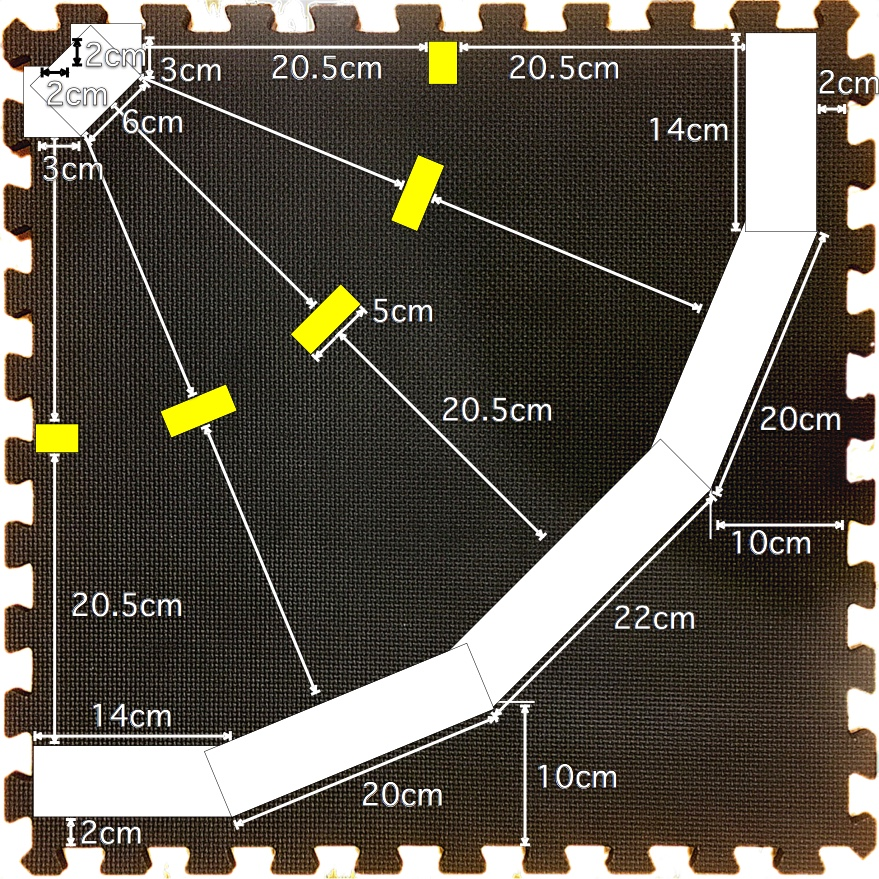
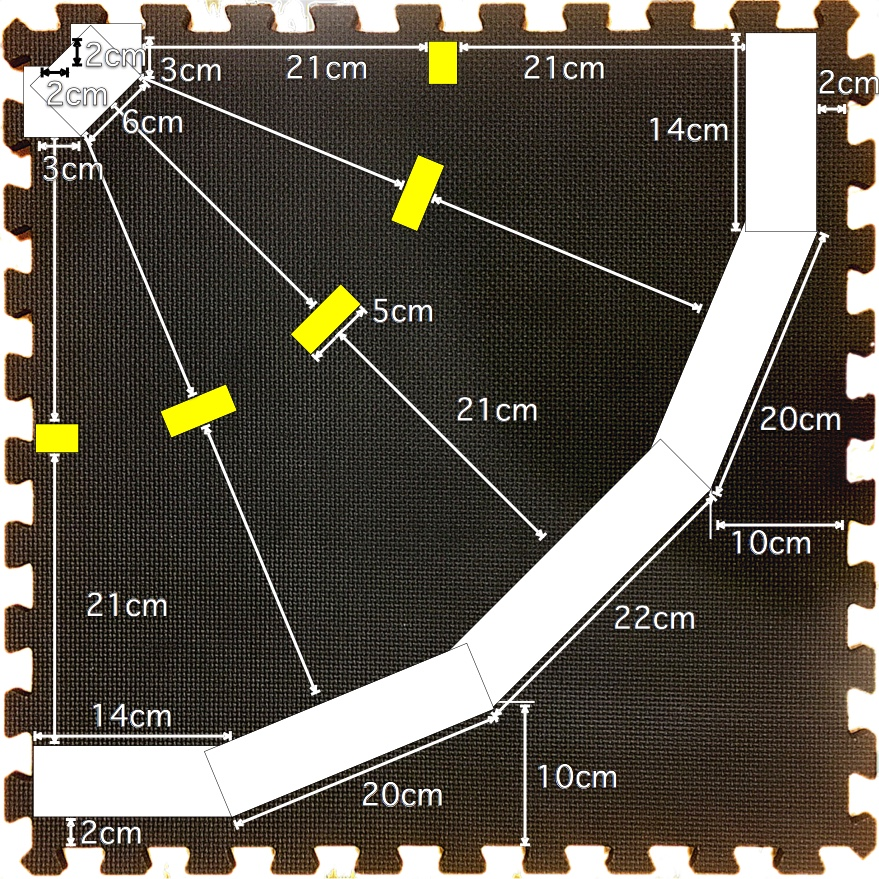
added pictures and finished the ‘build-tiles’ description.

diff --git a/css/main.css b/css/main.css
@@ -80,6 +80,11 @@ div.splash {
     font-size: 3em;
 }
 
+.center {
+  text-align: center;
+  overflow: auto;
+}
+
 section {
   width: 100vw;
   margin: 0;
@@ -90,6 +95,7 @@ section {
   padding-right: calc((100vw - 100%) / 2);
 
   overflow: auto;
+  clear: both;
 }
 section:nth-child(even) {
   background-color: white;
@@ -117,6 +123,20 @@ section.step:nth-child(even) img {
 section.step:nth-child(odd) img {
   float: right;
   padding-left: 24px;
+}
+
+section.step img.example {
+  float: none;
+  padding: 4px;
+  margin: 10px;
+  border: 2px solid #AAA;
+  width: 200px;
+  height: auto;
+}
+
+section.step img.img-h {
+  height: 200px;
+  width: auto;
 }
 
 @media screen and (max-width: 800px) {

diff --git a/pages/build-tiles.md b/pages/build-tiles.md
@@ -13,9 +13,13 @@ when Duckies travel from one town to another, every town should follow these rul
 Duckietown has two layers - Tiles and Signs:
 * **Tiles**: The first layer is the floor layer. The floor is built of interconnected exercise mats with tape on them. 
 * **Signes**: The second layer is signs and other objects that sit on top of the mats. 
-* **NOTE**: In the case that Duckietown directly abuts a wall, a perimeter of vertical tiles should be added to reduce visual clutter and false positives.
-* **NOTE**: The edge of each tile with a white piece of tape should also have a small curb (use the edge pieces that come with the mats for this). The purpose of this is to clearly delineate the white lanes and make lanes in adjacent roads less visible from the onboard camera. 
+
+**NOTE**: In the case that Duckietown directly abuts a wall, a perimeter of vertical tiles should be added to reduce visual clutter and false positives.
+<!-- {p:.alert .alert-warning} -->
+
+**NOTE**: The edge of each tile with a white piece of tape should also have a small curb (use the edge pieces that come with the mats for this). The purpose of this is to clearly delineate the white lanes and make lanes in adjacent roads less visible from the onboard camera. 
 Moreover, the Duckiebot is not powerful enough to cross the curb, so the failure of one car causes only the current tile to become unavailable.
+<!-- {p:.alert .alert-warning} -->
 
 </section>
 
@@ -23,7 +27,7 @@ Moreover, the Duckiebot is not powerful enough to cross the curb, so the failure
 
 ## Materials
 
-Following is a list of materials required to build the tiles:
+Following is a list of materials required to build the tiles (~$140):
 
 * <a target="_blank"  href="https://www.amazon.com/gp/product/B01IDRWPG8/ref=as_li_tl?ie=UTF8&camp=1789&creative=9325&creativeASIN=B01IDRWPG8&linkCode=as2&tag=duckietown-20&linkId=bb91b7d582c9da6c00d76d6a6a57df6d"><img border="0" src="//ws-na.amazon-adsystem.com/widgets/q?_encoding=UTF8&MarketPlace=US&ASIN=B01IDRWPG8&ServiceVersion=20070822&ID=AsinImage&WS=1&Format=_SL250_&tag=duckietown-20" width="40" /> Foam Interlocking Tiles (2ft x 2ft) (B01IDRWPG8)</a><img src="//ir-na.amazon-adsystem.com/e/ir?t=duckietown-20&l=am2&o=1&a=B01IDRWPG8" width="1" height="1" border="0" alt="" style="border:none !important; margin:0px !important;" />
 
@@ -34,7 +38,7 @@ Following is a list of materials required to build the tiles:
 * <a target="_blank"  href="https://www.amazon.com/gp/product/B000BQWLF0/ref=as_li_tl?ie=UTF8&camp=1789&creative=9325&creativeASIN=B000BQWLF0&linkCode=as2&tag=duckietown-20&linkId=6305eea6f8afaff8d89218b04fe76edc"><img border="0" src="//ws-na.amazon-adsystem.com/widgets/q?_encoding=UTF8&MarketPlace=US&ASIN=B000BQWLF0&ServiceVersion=20070822&ID=AsinImage&WS=1&Format=_SL250_&tag=duckietown-20" width="40" /> Yellow Electrical Tape, 3/4-Inch (B000BQWLF0)</a><img src="//ir-na.amazon-adsystem.com/e/ir?t=duckietown-20&l=am2&o=1&a=B000BQWLF0" width="1" height="1" border="0" alt="" style="border:none !important; margin:0px !important;" />
 
 ---
-Additional Items:
+Additional Items (~$45):
 
 * <a target="_blank"  href="https://www.amazon.com/gp/product/B00YMRZNTA/ref=as_li_tl?ie=UTF8&camp=1789&creative=9325&creativeASIN=B00YMRZNTA&linkCode=as2&tag=duckietown-20&linkId=d7652215f74b7115d07953317ba850d6"><img border="0" src="http://ws-na.amazon-adsystem.com/widgets/q?_encoding=UTF8&MarketPlace=US&ASIN=B00YMRZNTA&ServiceVersion=20070822&ID=AsinImage&WS=1&Format=_SL250_&tag=duckietown-20" width="40" /> Rubber Duckies (B00YMRZNTA)</a><img src="http://ir-na.amazon-adsystem.com/e/ir?t=duckietown-20&l=am2&o=1&a=B00YMRZNTA" width="1" height="1" border="0" alt="" style="border:none !important; margin:0px !important;" />
 
@@ -64,11 +68,27 @@ Each tile is a 2ft x 2ft interlock square. There are ~~four~~ **two** types of t
 
 Use the white 1.88" (5cm) Duck Tape to create the outer borders. It is assumed that the **white strip is always on the right** side of the lane. Also, **the white strip is always solid**.
 
-**NOTE** that the white strip is **2cm** away from the inner edge of the interlocking tile.
+Start by placing markers at **2cm away from the inner edge** of the interlocking tile. Then place the white tape from one side of the tile to the other, covering the interlocking pieces.
 
-Cut **ten 3cm** long pieces of yellow tape to create the median line. Place the pieces **3cm apart** from each other in the middle of the tile as shows in the picture.
+**TIP**: Use two small pieces of tape to measure and mark the locations where the tape should be placed, as shown in the pictures below.
+<!-- {p:.alert .alert-info} -->
 
-**NOTE** that the edge-to-edge distance between the medial line and the white line is **20.5cm**.
+[![tile-s-step1](/images/tile-s-step1.jpg)](/images/tile-s-step1.jpg)<!-- {.example} -->
+[![tile-s-step2](/images/tile-s-step2.jpg)](/images/tile-s-step2.jpg)<!-- {.example .img-h} -->
+<!-- {p:.center} -->
+
+Cut **six 5cm** long pieces of yellow tape to create the median line. Place the first one **3cm** away from the inner edge of the tile and at **21cm** from the edge of the white line. The edge-to-edge distance between the medial line and the white line should be **21cm**.
+
+[![tile-s-step5](/images/tile-s-step5.jpg)](/images/tile-s-step5.jpg)<!-- {.example .img-h} -->
+[![tile-s-step6](/images/tile-s-step6.jpg)](/images/tile-s-step6.jpg)<!-- {.example .img-h} -->
+<!-- {p:.center} -->
+
+Place the other pieces **5cm apart** from each other in the middle of the tile as shows in the pictures.
+
+[![tile-s-step7](/images/tile-s-step7.jpg)](/images/tile-s-step7.jpg)<!-- {.example} -->
+[![tile-s-step8](/images/tile-s-step8.jpg)](/images/tile-s-step8.jpg)<!-- {.example} -->
+[![tile-s-step9](/images/tile-s-step9.jpg)](/images/tile-s-step9.jpg)<!-- {.example} -->
+<!-- {p:.center} -->
 
 </section>
 
@@ -100,9 +120,34 @@ Mark **3cm** away from the edge of the white border tape as shown in the picture
 
 ### Step 3 - Outer Border
 
-Cut **two 14cm** pieces, **two 20cm** pieces, and **one 24cm** piece of white 1.88" (5cm) Duck Tape to create the outer borders. Place the tape pieces as shown in the picture. 
+Cut **two 14cm** pieces, **two 20cm** pieces, and **one 22cm** piece of white 1.88" (5cm) Duck Tape to create the outer borders. Place the tape pieces as shown in the picture.
 
-**NOTE** that the one corner of each piece overlaps with the adjacent pieces, however, the other corner is just touching. Also note that the **14cm pieces are 2cm away** from the inner edge of the interlocking tile. Finally, the inside side of the **20cm pieces is at 10cm away** from the inner edge of the tile.
+First, place the two 14cm pieces. 
+
+**NOTE** that the **14cm pieces are 2cm away** from the inner edge of the interlocking tile. 
+<!-- {p:.alert .alert-warning} -->
+
+[![tile-90s-step5](/images/tile-90s-step5.jpg)](/images/tile-90s-step5.jpg)<!-- {.example} -->
+[![tile-90s-step6](/images/tile-90s-step6.jpg)](/images/tile-90s-step6.jpg)<!-- {.example} -->
+[![tile-90s-step7](/images/tile-90s-step7.jpg)](/images/tile-90s-step7.jpg)<!-- {.example} -->
+<!-- {p:.center} -->
+
+Then, measure 10cm away from the edge of the tile and place the two 20cm pieces. 
+
+**NOTE** that the one corner of each piece overlaps with the adjacent pieces, however, the other corner is just touching. 
+<!-- {p:.alert .alert-warning} -->
+
+[![tile-90s-step10](/images/tile-90s-step10.jpg)](/images/tile-90s-step10.jpg)<!-- {.example} -->
+[![tile-90s-step11](/images/tile-90s-step11.jpg)](/images/tile-90s-step11.jpg)<!-- {.example} -->
+[![tile-90s-step12](/images/tile-90s-step12.jpg)](/images/tile-90s-step12.jpg)<!-- {.example} -->
+<!-- {p:.center} -->
+
+Finally, connect the edges of the 20cm strips with the 22cm strip.
+
+[![tile-90s-step13](/images/tile-90s-step13.jpg)](/images/tile-90s-step13.jpg)<!-- {.example} -->
+[![tile-90s-step14](/images/tile-90s-step14.jpg)](/images/tile-90s-step14.jpg)<!-- {.example} -->
+[![tile-90s-step15](/images/tile-90s-step15.jpg)](/images/tile-90s-step15.jpg)<!-- {.example} -->
+<!-- {p:.center} -->
 
 </section>
 
@@ -112,8 +157,14 @@ Cut **two 14cm** pieces, **two 20cm** pieces, and **one 24cm** piece of white 1.
 
 ### Step 4 - Center line
 
-The center line is made of **three 5cm strips** of **yellow tape** and **two 3cm** strips. The center line is at **20.5cm away** from each of the edges of the inner and outer white lines. Place the yellow strips according to the image.
+The center line is made of **five 5cm strips** of **yellow tape**. The center line is at **21cm away** from each of the edges of the inner and outer white lines. Place the yellow strips according to the image.
 
+Start by placing the middle strip. Then place the edge strips, and finally place the last strips so that they are all equally spaced.
+
+[![tile-90s-step18](/images/tile-90s-step18.jpg)](/images/tile-90s-step18.jpg)<!-- {.example} -->
+[![tile-90s-step19](/images/tile-90s-step19.jpg)](/images/tile-90s-step19.jpg)<!-- {.example} -->
+[![tile-90s-step20](/images/tile-90s-step20.jpg)](/images/tile-90s-step20.jpg)<!-- {.example} -->
+<!-- {p:.center} -->
 
 </section>
 

diff --git a/pages/about.md b/pages/about.md
@@ -8,7 +8,7 @@ Duckietown (duckietown.mit.edu) was originally developed at MIT as a class on ad
 It is a hands-on, project-focused course focusing on self-driving vehicles and high-level autonomy.
 
 The class focuses on solving the ultimate problem to 
-**Design an Autonomous Robo-Taxis System for the City of Duckietown.**
+**Design an Autonomous Robo-Taxi System for the City of Duckietown.**
 
 This project ([duckietown.dev.land](http://duckietown.dev.land)) is an attempt to extend
 the **City of Duckietown** and open its doors to Middle School students.
